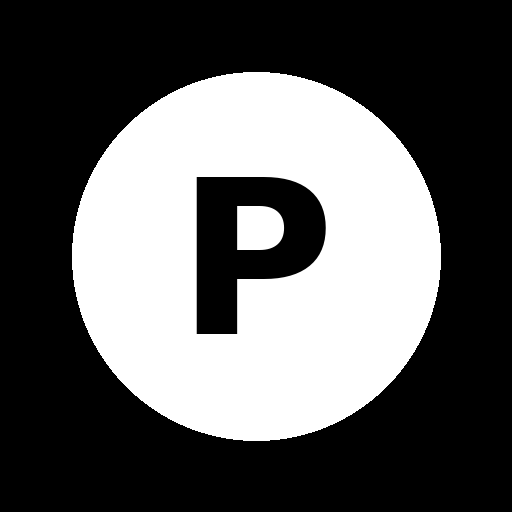
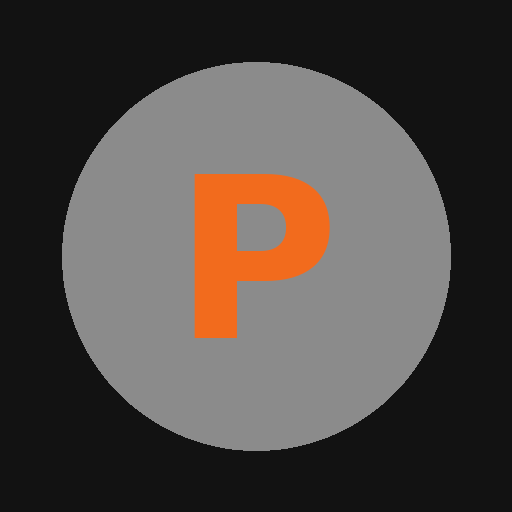
ParcheggiaTI: layout arancio, P nel cerchio, animazione Mini a lisca di pesce
Claude-Session: https://claude.ai/code/session_01SEnMi5f4eAnkHkT1ZnQxYL

diff --git a/index.html b/index.html
@@ -3,51 +3,133 @@
 <head>
 <meta charset="utf-8">
 <meta name="viewport" content="width=device-width, initial-scale=1, viewport-fit=cover">
-<title>Parcheggio</title>
+<title>ParcheggiaTI</title>
 <link rel="manifest" href="manifest.json">
 <link rel="apple-touch-icon" href="icon-180.png">
 <meta name="apple-mobile-web-app-capable" content="yes">
-<meta name="apple-mobile-web-app-title" content="Parcheggio">
+<meta name="apple-mobile-web-app-title" content="ParcheggiaTI">
 <meta name="apple-mobile-web-app-status-bar-style" content="black-translucent">
-<meta name="theme-color" content="#000000">
-<link href="https://fonts.googleapis.com/css2?family=Inter:wght@300;500;800&display=swap" rel="stylesheet">
+<meta name="theme-color" content="#121212">
+<link href="https://fonts.googleapis.com/css2?family=Inter:wght@400;500;700;800&display=swap" rel="stylesheet">
 <style>
+  :root{--acc:#F26B1D;--bg:#121212;--mut:#8A8A8A}
   *{box-sizing:border-box;margin:0;-webkit-tap-highlight-color:transparent}
-  html,body{height:100%}
-  body{background:#000;color:#fff;font-family:Inter,-apple-system,system-ui,sans-serif;
-       display:flex;flex-direction:column;align-items:center;
-       padding:calc(env(safe-area-inset-top) + 8vh) 28px calc(env(safe-area-inset-bottom) + 28px)}
-  #go{width:min(62vw,260px);aspect-ratio:1;border-radius:50%;border:0;background:#fff;color:#000;
-      font:800 min(30vw,128px)/1 Inter,sans-serif;cursor:pointer;transition:transform .15s,opacity .2s}
+  html,body{min-height:100%}
+  body{background:var(--bg);color:#fff;font-family:Inter,-apple-system,system-ui,sans-serif;
+       display:flex;flex-direction:column;align-items:center;min-height:100vh;
+       padding:calc(env(safe-area-inset-top) + 40px) 28px calc(env(safe-area-inset-bottom) + 28px)}
+  .logo{font-size:32px;font-weight:800;letter-spacing:-.5px}
+  .logo span{color:var(--acc)}
+  #go{margin-top:44px;width:min(52vw,200px);aspect-ratio:1;border-radius:50%;border:0;background:#8B8B8B;
+      box-shadow:0 18px 50px rgba(0,0,0,.55);color:var(--acc);font:800 min(30vw,118px)/1 Inter,sans-serif;
+      cursor:pointer;transition:transform .15s}
   #go:active{transform:scale(.95)}
-  #go.wait{opacity:.35}
-  .hint{margin-top:22px;font-size:13px;letter-spacing:.18em;text-transform:uppercase;color:#666;font-weight:500}
-  #info{margin-top:8vh;text-align:center;width:100%;max-width:420px}
-  .ok{font-size:13px;letter-spacing:.18em;text-transform:uppercase;color:#666;font-weight:500}
-  .via{font-size:30px;font-weight:300;line-height:1.2;margin-top:10px}
-  .when{color:#666;font-size:15px;margin-top:8px}
-  .nav{display:inline-block;margin-top:26px;color:#fff;text-decoration:none;font-size:15px;font-weight:500;
-       border-bottom:1px solid #444;padding-bottom:3px}
-  .err{color:#ff6b6b;font-size:15px;line-height:1.4}
-  #storico{margin-top:auto;width:100%;max-width:420px;padding-top:40px}
-  .row{display:flex;justify-content:space-between;align-items:baseline;gap:12px;padding:11px 0;border-top:1px solid #1a1a1a;
-       color:#555;font-size:14px;text-decoration:none}
-  #manuale{margin-top:14px;background:none;border:0;color:#444;font:500 13px Inter,sans-serif;text-decoration:underline;cursor:pointer}
-  #form{display:none;margin-top:18px;width:100%;max-width:420px;gap:8px}
-  #form input{flex:1;background:#111;border:1px solid #222;border-radius:12px;color:#fff;font:16px Inter,sans-serif;padding:13px 14px;outline:none}
-  #form button{background:#fff;color:#000;border:0;border-radius:12px;font:600 15px Inter,sans-serif;padding:0 18px}
-  .row b{color:#999;font-weight:500;white-space:nowrap;overflow:hidden;text-overflow:ellipsis}
+  .lbl{font-size:12px;font-weight:500;letter-spacing:.18em;text-transform:uppercase;color:var(--mut)}
+  .stato{margin-top:26px;display:flex;align-items:center;gap:8px;font-size:14px;font-weight:700;letter-spacing:.18em;text-transform:uppercase;color:var(--acc)}
+  #info{width:100%;max-width:420px;display:flex;flex-direction:column;align-items:center;text-align:center}
+  .via{margin-top:10px;font-size:30px;font-weight:800;letter-spacing:-.5px;line-height:1.15}
+  .when{margin-top:8px;font-size:16px;color:#9A9A9A}
+  .nav{margin-top:26px;display:flex;align-items:center;justify-content:center;gap:10px;width:100%;height:56px;border-radius:16px;
+       background:var(--acc);color:#121212;font-size:17px;font-weight:800;text-decoration:none}
+  #manuale{margin-top:10px;background:none;border:0;color:#9A9A9A;font:500 14px Inter,sans-serif;text-decoration:underline;padding:12px;cursor:pointer}
+  #form{display:none;margin-top:14px;width:100%;max-width:420px;gap:8px}
+  #form input{flex:1;min-width:0;height:54px;border-radius:14px;border:2px solid var(--acc);background:#1C1C1C;color:#fff;font:500 16px Inter,sans-serif;padding:0 14px;outline:none}
+  #form button{border:0;border-radius:14px;background:var(--acc);color:#121212;font:800 15px Inter,sans-serif;padding:0 16px}
+  .err{margin-top:22px;color:#ff7b7b;font-size:15px;line-height:1.4;text-align:center}
+  #storico{margin-top:auto;width:100%;max-width:420px;padding-top:36px}
+  .row{display:flex;justify-content:space-between;gap:12px;padding:13px 0;border-top:1px solid #262626;color:#CFCFCF;text-decoration:none;font-size:15px}
+  .row span:first-child{white-space:nowrap;overflow:hidden;text-overflow:ellipsis}
+  .row span:last-child{color:var(--mut);white-space:nowrap}
+
+  /* animazione */
+  #anim{position:fixed;inset:0;background:var(--bg);display:none;flex-direction:column;align-items:center;justify-content:center;z-index:10;opacity:0;transition:opacity .35s}
+  #anim.on{display:flex}
+  #anim.vis{opacity:1}
+  #anim svg{width:min(92vw,420px);height:auto}
+  #animTxt{margin-top:18px;font-size:13px;font-weight:700;letter-spacing:.2em;text-transform:uppercase;color:var(--acc);min-height:18px}
+  .brake{opacity:0;transition:opacity .2s}
+  .brake.on{opacity:1}
 </style>
 </head>
 <body>
 
+<div class="logo"><span>Parcheggia</span>TI</div>
 <button id="go" aria-label="Ho parcheggiato qui">P</button>
-<div class="hint" id="hint">Tocca quando parcheggi</div>
-<button id="manuale">oppure scrivi la via</button>
-<form id="form"><input id="indirizzo" placeholder="es. Via Barberia 30A" autocomplete="off"><button>Salva</button></form>
 
 <div id="info"></div>
+<button id="manuale">oppure scrivi la via</button>
+<form id="form"><input id="indirizzo" placeholder="es. Via Barberia 30A" autocomplete="off" aria-label="Via e numero civico"><button>Salva</button></form>
 <div id="storico"></div>
+
+<!-- Overlay animazione -->
+<div id="anim" aria-hidden="true">
+  <svg viewBox="0 0 300 420">
+    <defs>
+      <g id="auto">
+        <rect x="-3" y="12" width="5" height="14" rx="2" fill="#0a0a0a"/>
+        <rect x="38" y="12" width="5" height="14" rx="2" fill="#0a0a0a"/>
+        <rect x="-3" y="56" width="5" height="14" rx="2" fill="#0a0a0a"/>
+        <rect x="38" y="56" width="5" height="14" rx="2" fill="#0a0a0a"/>
+      </g>
+      <g id="grigia">
+        <use href="#auto"/>
+        <rect x="0" y="0" width="40" height="82" rx="11" fill="#4a4a4a"/>
+        <path d="M6 24 Q20 18 34 24 L32 32 L8 32 Z" fill="#1b1b1b"/>
+        <rect x="8" y="34" width="24" height="26" rx="4" fill="#3a3a3a"/>
+        <path d="M8 62 L32 62 L30 69 L10 69 Z" fill="#1b1b1b"/>
+      </g>
+    </defs>
+
+    <!-- asfalto -->
+    <rect x="0" y="0" width="300" height="420" fill="#1b1b1b"/>
+    <!-- marciapiede -->
+    <rect x="276" y="0" width="24" height="420" fill="#2a2a2a"/>
+    <!-- linea di mezzeria -->
+    <g stroke="#3d3d3d" stroke-width="3" stroke-dasharray="18 16">
+      <line x1="40" y1="0" x2="40" y2="420"/>
+    </g>
+    <!-- stalli a lisca di pesce (45°) -->
+    <g stroke="#e9e9e9" stroke-width="2.5" stroke-linecap="round" opacity=".85">
+      <line x1="185" y1="132" x2="276" y2="41"/>
+      <line x1="185" y1="217" x2="276" y2="126"/>
+      <line x1="185" y1="302" x2="276" y2="211"/>
+      <line x1="185" y1="387" x2="276" y2="296"/>
+    </g>
+    <!-- auto parcheggiate ai lati -->
+    <g transform="translate(232 127) rotate(45) translate(-20 -41)"><use href="#grigia"/></g>
+    <g transform="translate(232 297) rotate(45) translate(-20 -41)"><use href="#grigia"/></g>
+
+    <!-- la Mini -->
+    <g id="mini" transform="translate(100 470)">
+      <g transform="translate(-20 -41)">
+        <use href="#auto"/>
+        <rect x="0" y="0" width="40" height="82" rx="11" fill="#F4F4F4"/>
+        <!-- strisce cofano -->
+        <rect x="13" y="2" width="4.5" height="20" rx="1" fill="#F26B1D"/>
+        <rect x="22.5" y="2" width="4.5" height="20" rx="1" fill="#F26B1D"/>
+        <!-- parabrezza -->
+        <path d="M6 24 Q20 18 34 24 L32 32 L8 32 Z" fill="#141414"/>
+        <!-- tetto nero con strisce -->
+        <rect x="7" y="33" width="26" height="28" rx="4" fill="#161616"/>
+        <rect x="13" y="35" width="4.5" height="24" rx="1" fill="#F26B1D"/>
+        <rect x="22.5" y="35" width="4.5" height="24" rx="1" fill="#F26B1D"/>
+        <!-- lunotto + spoiler arancio -->
+        <path d="M8 63 L32 63 L30 70 L10 70 Z" fill="#141414"/>
+        <rect x="9" y="71" width="22" height="3" rx="1.5" fill="#F26B1D"/>
+        <!-- specchietti arancio -->
+        <ellipse cx="-3" cy="27" rx="4" ry="2.6" fill="#F26B1D"/>
+        <ellipse cx="43" cy="27" rx="4" ry="2.6" fill="#F26B1D"/>
+        <!-- fari -->
+        <circle cx="7" cy="4" r="2.6" fill="#fff6c8"/>
+        <circle cx="33" cy="4" r="2.6" fill="#fff6c8"/>
+        <!-- stop -->
+        <rect class="brake" x="3" y="77" width="7" height="3" rx="1.5" fill="#ff3b30"/>
+        <rect class="brake" x="30" y="77" width="7" height="3" rx="1.5" fill="#ff3b30"/>
+      </g>
+    </g>
+  </svg>
+  <div id="animTxt"></div>
+</div>
 
 <script>
 const KEY="parcheggi_v1";
@@ -58,21 +140,73 @@ function esc(s){return String(s??"").replace(/[&<>"']/g,c=>({"&":"&amp;","<":"&l
 function maps(p){return "https://www.google.com/maps/search/?api=1&query="+(p.lat!=null?p.lat+","+p.lng:encodeURIComponent(p.via+", Bologna"))}
 function giorno(ts){return new Date(ts).toLocaleDateString("it-IT",{weekday:"short",day:"numeric",month:"short"})}
 function ora(ts){return new Date(ts).toLocaleTimeString("it-IT",{hour:"2-digit",minute:"2-digit"})}
-function nome(p){return p.via||(p.lat.toFixed(5)+", "+p.lng.toFixed(5))}
+function nome(p){return p.via||(p.lat!=null?p.lat.toFixed(5)+", "+p.lng.toFixed(5):"Posizione salvata")}
+const pin='<svg width="20" height="20" viewBox="0 0 24 24" fill="none" stroke="currentColor" stroke-width="2.4" stroke-linecap="round" stroke-linejoin="round" aria-hidden="true"><path d="M12 21s-7-6.2-7-11.5A7 7 0 0 1 19 9.5C19 14.8 12 21 12 21z"/><circle cx="12" cy="9.5" r="2.5"/></svg>';
+const check='<svg width="18" height="18" viewBox="0 0 24 24" fill="none" stroke="currentColor" stroke-width="2.6" stroke-linecap="round" stroke-linejoin="round" aria-hidden="true"><path d="M5 12.5l4.5 4.5L19 7.5"/></svg>';
 
-function render(appena){
+function render(){
   const a=load();
-  if(!a.length){$("info").innerHTML="";$("storico").innerHTML="";return}
+  if(!a.length){
+    $("info").innerHTML='<div class="stato" style="margin-top:26px">Tocca quando parcheggi</div>';
+    $("storico").innerHTML="";return;
+  }
   const p=a[0];
   $("info").innerHTML=
-    '<div class="ok">'+(appena?"Perfetto, l'hai lasciata in":"La macchina è in")+'</div>'+
+    '<div class="stato">'+check+'Parcheggiata</div>'+
+    '<div class="lbl" style="margin-top:28px">La macchina è in</div>'+
     '<div class="via">'+esc(nome(p))+'</div>'+
     '<div class="when">'+giorno(p.ts)+' · '+ora(p.ts)+'</div>'+
-    '<a class="nav" href="'+maps(p)+'" target="_blank" rel="noopener">Portami lì →</a>';
-  $("storico").innerHTML=a.slice(1,6).map(x=>
-    '<a class="row" href="'+maps(x)+'" target="_blank" rel="noopener"><b>'+esc(nome(x))+'</b><span>'+giorno(x.ts)+' · '+ora(x.ts)+'</span></a>').join("");
+    '<a class="nav" href="'+maps(p)+'" target="_blank" rel="noopener">'+pin+'Portami lì</a>';
+  const rest=a.slice(1,6);
+  $("storico").innerHTML=rest.length?'<div class="lbl" style="margin-bottom:4px">Prima</div>'+
+    rest.map(x=>'<a class="row" href="'+maps(x)+'" target="_blank" rel="noopener"><span>'+esc(nome(x))+'</span><span>'+giorno(x.ts)+' · '+ora(x.ts)+'</span></a>').join(""):"";
 }
+function errore(msg){render();$("info").insertAdjacentHTML("beforeend",'<div class="err">'+msg+'</div>')}
 
+/* ---------- animazione Mini ---------- */
+function cubic(p0,p1,p2,p3,t){const u=1-t;return u*u*u*p0+3*u*u*t*p1+3*u*t*t*p2+t*t*t*p3}
+function dcubic(p0,p1,p2,p3,t){const u=1-t;return 3*u*u*(p1-p0)+6*u*t*(p2-p1)+3*t*t*(p3-p2)}
+const ease=t=>t<.5?2*t*t:1-Math.pow(-2*t+2,2)/2;
+function posa(x,y,ang){$("mini").setAttribute("transform","translate("+x+" "+y+") rotate("+ang+")")}
+function animazione(){
+  return new Promise(res=>{
+    const ov=$("anim");ov.classList.add("on");requestAnimationFrame(()=>ov.classList.add("vis"));
+    document.querySelectorAll(".brake").forEach(b=>b.classList.remove("on"));
+    $("animTxt").textContent="";
+    const D1=900,D2=1500,start=performance.now();
+    posa(100,470,0);
+    function frame(now){
+      const t=now-start;
+      if(t<D1){                       // dritto lungo la strada
+        const k=ease(t/D1);posa(100,470-(470-330)*k,0);
+      }else if(t<D1+D2){              // curva dentro lo stallo a 45°
+        const k=ease((t-D1)/D2);
+        const P=[[100,330],[100,250],[175,262],[232,212]];
+        const x=cubic(P[0][0],P[1][0],P[2][0],P[3][0],k),y=cubic(P[0][1],P[1][1],P[2][1],P[3][1],k);
+        const dx=dcubic(P[0][0],P[1][0],P[2][0],P[3][0],Math.max(k,.001)),dy=dcubic(P[0][1],P[1][1],P[2][1],P[3][1],Math.max(k,.001));
+        let ang=Math.atan2(dx,-dy)*180/Math.PI; if(k>.85) ang=ang+(45-ang)*((k-.85)/.15);
+        posa(x,y,ang);
+        if(k>.7)document.querySelectorAll(".brake").forEach(b=>b.classList.add("on"));
+      }else{
+        posa(232,212,45);
+        $("animTxt").textContent="Parcheggiata!";
+        setTimeout(()=>document.querySelectorAll(".brake").forEach(b=>b.classList.remove("on")),300);
+        setTimeout(res,700);return;
+      }
+      requestAnimationFrame(frame);
+    }
+    requestAnimationFrame(frame);
+  });
+}
+function chiudiAnim(){const ov=$("anim");ov.classList.remove("vis");setTimeout(()=>ov.classList.remove("on"),350)}
+
+/* ---------- posizione ---------- */
+function posizione(){
+  return new Promise((res,rej)=>{
+    if(!navigator.geolocation)return rej({code:0});
+    navigator.geolocation.getCurrentPosition(res,rej,{enableHighAccuracy:true,timeout:20000,maximumAge:0});
+  });
+}
 async function via(lat,lng){
   try{
     const r=await fetch("https://nominatim.openstreetmap.org/reverse?format=jsonv2&zoom=18&accept-language=it&lat="+lat+"&lon="+lng);
@@ -82,26 +216,31 @@ async function via(lat,lng){
   }catch(e){return null}
 }
 
-$("go").onclick=()=>{
-  const b=$("go");
-  if(b.classList.contains("wait"))return;
-  if(!navigator.geolocation){$("info").innerHTML='<div class="err">Posizione non disponibile su questo telefono.</div>';return}
-  b.classList.add("wait");$("hint").textContent="Cerco la posizione…";
-  navigator.geolocation.getCurrentPosition(async pos=>{
-    const p={lat:pos.coords.latitude,lng:pos.coords.longitude,acc:pos.coords.accuracy,ts:Date.now()};
-    const a=load();a.unshift(p);save(a);render(true);
-    const v=await via(p.lat,p.lng);
-    if(v){const a2=load();if(a2[0]&&a2[0].ts===p.ts){a2[0].via=v;save(a2);render(true)}}
-    b.classList.remove("wait");$("hint").textContent="Tocca quando parcheggi";
-  },err=>{
-    b.classList.remove("wait");$("hint").textContent="Tocca quando parcheggi";
-    $("info").innerHTML='<div class="err">'+(err.code===1?"Consenti la posizione nelle impostazioni del telefono.":"Posizione non trovata, riprova.")+'</div>';
-  },{enableHighAccuracy:true,timeout:20000,maximumAge:0});
+let occupato=false;
+$("go").onclick=async()=>{
+  if(occupato)return; occupato=true;
+  const anim=animazione();
+  let p=null,err=null;
+  try{
+    const pos=await posizione();
+    p={lat:pos.coords.latitude,lng:pos.coords.longitude,acc:pos.coords.accuracy,ts:Date.now()};
+    const a=load();a.unshift(p);save(a);
+    const v=await Promise.race([via(p.lat,p.lng),new Promise(r=>setTimeout(()=>r(null),4000))]);
+    if(v){const a2=load();if(a2[0]&&a2[0].ts===p.ts){a2[0].via=v;save(a2)}}
+  }catch(e){err=e}
+  await anim; chiudiAnim(); occupato=false;
+  if(err)errore(err.code===1?"Consenti la posizione nelle impostazioni del telefono, poi riprova.":"Posizione non trovata, riprova.");
+  else render();
+  // se la via arriva dopo, aggiorna
+  if(p&&!load()[0].via){via(p.lat,p.lng).then(v=>{if(v){const a=load();if(a[0].ts===p.ts){a[0].via=v;save(a);render()}}})}
 };
+
 $("manuale").onclick=()=>{$("form").style.display="flex";$("manuale").style.display="none";$("indirizzo").focus()};
 $("form").onsubmit=async e=>{
   e.preventDefault();
-  const t=$("indirizzo").value.trim(); if(!t)return;
+  const t=$("indirizzo").value.trim(); if(!t||occupato)return; occupato=true;
+  $("indirizzo").blur();
+  const anim=animazione();
   const p={via:t,lat:null,lng:null,ts:Date.now()};
   try{
     const r=await fetch("https://nominatim.openstreetmap.org/search?format=jsonv2&limit=1&countrycodes=it&q="+encodeURIComponent(t+", Bologna"));
@@ -109,9 +248,9 @@ $("form").onsubmit=async e=>{
   }catch(e){}
   const a=load();a.unshift(p);save(a);
   $("indirizzo").value="";$("form").style.display="none";$("manuale").style.display="";
-  render(true);
+  await anim; chiudiAnim(); occupato=false; render();
 };
-render(false);
+render();
 </script>
 </body>
 </html>
